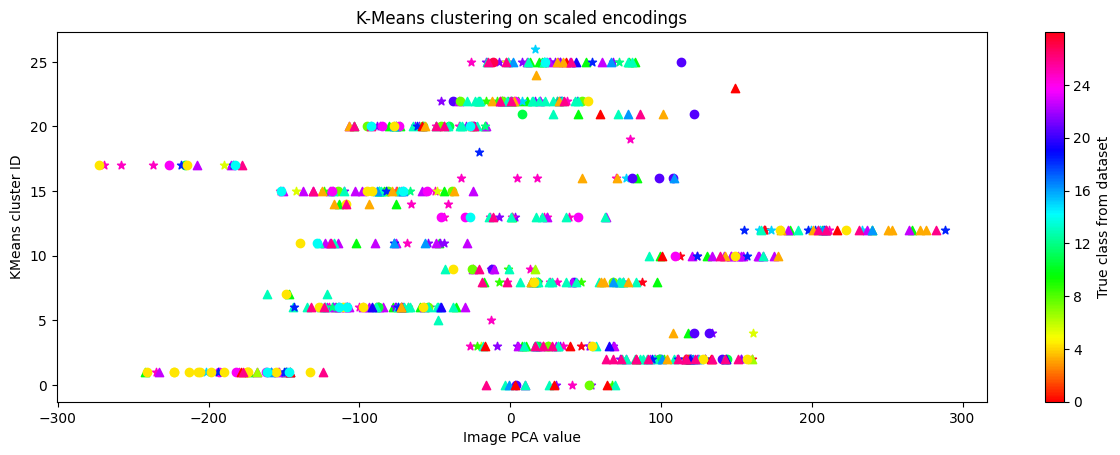
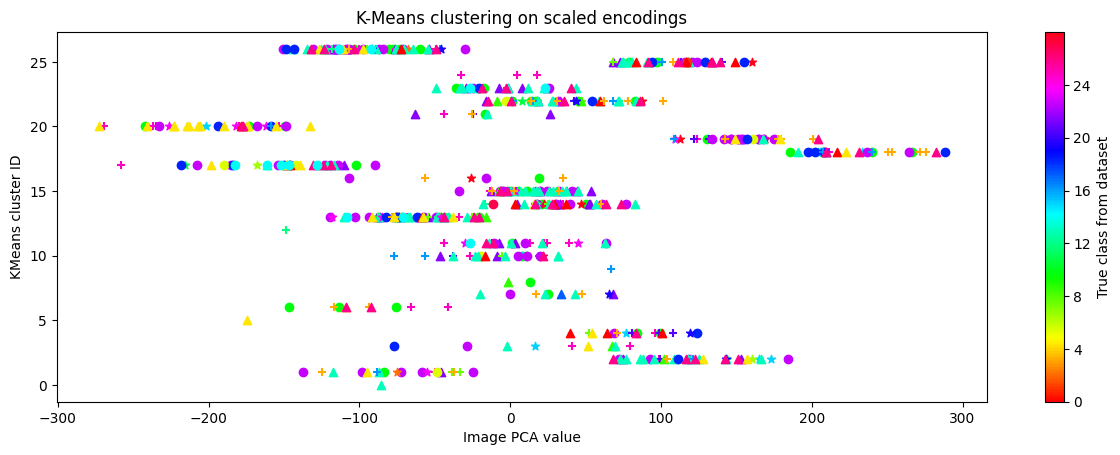
doc update, more marker shapes

diff --git a/cluster.py b/cluster.py
@@ -22,6 +22,7 @@ device = config['device']
 
 print('Running...')
 
+
 def get_encodings(testingdir: str = config['testingdir'], device='cpu',
                   predict: bool = True) -> dict:
     """Loads data from testdir and encodes images with model. Returns a 
@@ -86,7 +87,7 @@ def plot_cluster(data_df):
     ax = fig.add_subplot(111)
 
     # Set marker style variation & color for gold class
-    m = ['^', 'o', '*'] * int(27/3)
+    m = ['^', 'o', '*', '+'] * 7
     cmap = plt.colormaps['hsv']
     color_list = cmap(np.linspace(0, 1, 27))
 

diff --git a/README.md b/README.md
@@ -9,13 +9,13 @@ So I had a look at the testing script and noticed that the y label encoding for 
 
 After fixing label encoding, test results were consistent when re-testing the same model. Performance for the model as-is caps around 16% (1), which is the baseline for always predicting the most frequent arttype in the data (101/630 items in the test set).
 
-To improve performance with minimal changes, I tried different layers and functions (additional linear layer of size 105*105/10, tanh, leakyrelu) and experimented with the hyper parameters. Once or twice, results were high for tanh but varied greatly. Decreasing the learning rate generally lead to loss continuing to decrease, but no improvement in performance.  
-I landed on the following, which was not completely reliable either, but got varying and often times higher results than the base architecture (2):
+To improve performance with minimal changes, I tried different layers and functions (additional linear layer of size (105*105/10), tanh, leakyReLU) and experimented with the hyper parameters. Once or twice, results were high for tanh but varied greatly. Decreasing the learning rate generally lead to loss continuing to decrease, but no improvement in performance.  
+I landed on the following, which was not completely reliable either, and loss seems to stagnate very early on, but it got varying and often times higher results than the base architecture (2):
 
 #### Changes:  
 
 - replaced Maxpool2d layer with nn.AdaptiveAvgPool2d((50,50)), also changes hidden layer size to 50*50 (prev: 105*105)
-- swapped out relu for nn.Sigmoid()
+- swapped out ReLU for nn.Sigmoid()
 - (changed attribute names: self.maxpool2d -> self.pool, self.relu -> self.activfunc for easy switching between architectures for comparison, added keywords for bonus part ! to config/model/train function, set ("bonusA": "True") in config for avgpool + sigmoid version)
 
 #### Condensed output  
@@ -33,7 +33,7 @@ ___
 File(s): train_bonusA.py, wikiart.py (class WikiArtModel)
 
 I tried accounting for the class imbalance by using class weights inverse to a class's frequency. I initially used these in nn.NLLLoss()'s weight parameter (the less frequent the class, the more is its loss weighed). But for explainability switched to using a weighted random sampler for the rest of the assignment instead. The sampler uses the same weights and simply ensures that batches have an even distribution of input items per classes.  
-I tried some different weight metrics (1-3), but none improved (and actually lowered) performance for either the base or the bonusA architecture.  
+I experimented with some different weight metrics (1-3), but none improved (and actually lowered) performance for either the base or the bonusA architecture.  
 This leads me to believe that the weights work as intended, but the current architecture is not suited to actually learn the proper classification and therefore performs worse when it becomes impossible to exploit the class imbalance. In Part 2, I continued with weight metric 3.
 
 #### Changes:  
@@ -71,8 +71,8 @@ ___
 
 File(s): train_part2.py, wikiart.py (class WikiArtPart2), config modelfile2
 
-For the encoder I used two convolutional layers (3->9->3 channels, kernel size 5), each followed by a max pooling layer (kernel size & stride 2) to reduce the image size to 6,25% of the original size (from (3,416,416) to (3,104,104). The activation function between the two Conv2d/pooling pairs was relu.  
-In the decoder, the encoder's structure was mirrored by two pairs consisting of a transposed convolutional layer followed by an upsampling layer (scale=2) to reconstruct the original input size. The activation function between the pairs was once again relu and the decoder's final layer employed the sigmoid function.  
+For the encoder I used two convolutional layers (3->9->3 channels, kernel size 5), each followed by a max pooling layer (kernel size & stride 2) to reduce the image size to 6,25% of the original size (from (3,416,416) to (3,104,104)). The activation function between the two Conv2d/pooling pairs was ReLU.  
+In the decoder, the structure of the encoder was mirrored by two pairs consisting of a transposed convolutional layer followed by an upsampling layer (scale=2) to reconstruct the original input size. The activation function between the pairs was once again ReLU and the decoder's final layer employed the sigmoid function.  
 Progress was measured by loss values (MSE_loss, initial value, change across epochs, approximate converging value) and plotting the encoded and decoded images, as well as comparison of the latter to the original image from the dataset.
 
 Some experiments with increasing the amount of channels, adding more pairs of convolutional/pooling layers, varying the pooling type, or interspersing layers with more activation functions did not appear to improve performance further. Of my experiments, the structure above was the only one able to retrieve some of the original colours. Reducing the channel size below 3 at any point in the encoder made it impossible to retrieve proper colour values in decoding.  
@@ -93,7 +93,7 @@ First, I encoded the images in the test set using the model above, I then flatte
 
 ![alt text](https://github.com/jshrdt/lt2326-h24-wa_modeling/blob/main/cluster_encodings.png?raw=true)
 
-Image encodings in a given cluster group tend to also have similar PCA values, as they align in dense horizontal lines in the plot above. Most clusters' range of PCA values is a similar size, though curiously there are a couple of noticeably smaller clusters (e.g. single light blue star in the very top cluster). Art styles do not appear to be retained in the encodings in any meaningful way as no clusters with clearly dominant colours emerge in the plot.  
+Image encodings in a given cluster group tend to also have similar PCA values, as they align in dense horizontal lines in the plot above. Most clusters' range of PCA values is a similar size, though curiously there are a couple of noticeably smaller clusters (e.g. single turquoise triangle on y=0). Art styles do not appear to be retained in the encodings in any meaningful way as no clusters with clearly dominant colours emerge in the plot.  
 
 ___
 
